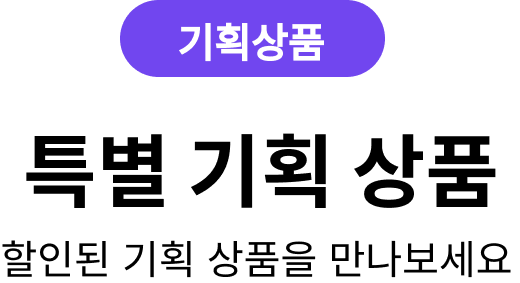
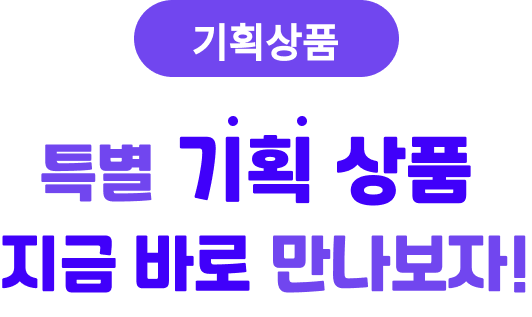
feat : sellproject 작업

diff --git a/css/sellproject.css b/css/sellproject.css
@@ -1,5 +1,5 @@
 .sell {
-
+   background-color: #7666a7;
     width: 1000px;
 }
 .sell .inner {
@@ -21,10 +21,19 @@
 
 /* sell1 */
 .sell .sell1{
-    background: #C1ADFB;
+    background: #744cea;
     border-radius: 100px 0 100px 0;
     margin-bottom: 150px;
 }
+#selltitle{
+    margin-left: 8%;
+}
+#sellparty{
+    margin-top: -2%;
+    margin-left: -10%;
+    width: 22%;
+}
+
 #sellmain {
   margin-top: 30px;
   margin-left: -23px;  
@@ -44,7 +53,7 @@
     overflow: hidden;
     box-shadow: 0 1px 3px rgba(0,0,0,0.12), 0 1px 2px rgba(0,0,0,0.24);
     transition: all 0.2s linear 0s;
-    background-color:#896FD2;
+    background-color:#744cea;
     margin-top: -10%;
     margin-left: -8%;
 }

diff --git a/sellproject.html b/sellproject.html
@@ -59,7 +59,8 @@
         <!-- 기획상품 1 -->
         <div class="sell-box">
           <div class="sell-title">
-            <img src="images/sell-title.png" alt="">
+            <img src="images/sell-title.png" alt="" id="selltitle">
+            <img src="images/sellparty.png" alt="" id="sellparty">
           </div>
           <div class="sell-main">
             <img src="images/sell.png" alt="" >

diff --git a/css/event.css b/css/event.css
@@ -17,7 +17,6 @@
     align-items: center;
     padding: 150px 100px;
 }
-
 /* event1 */
 .event .event1{
     background: #C1ADFB;
